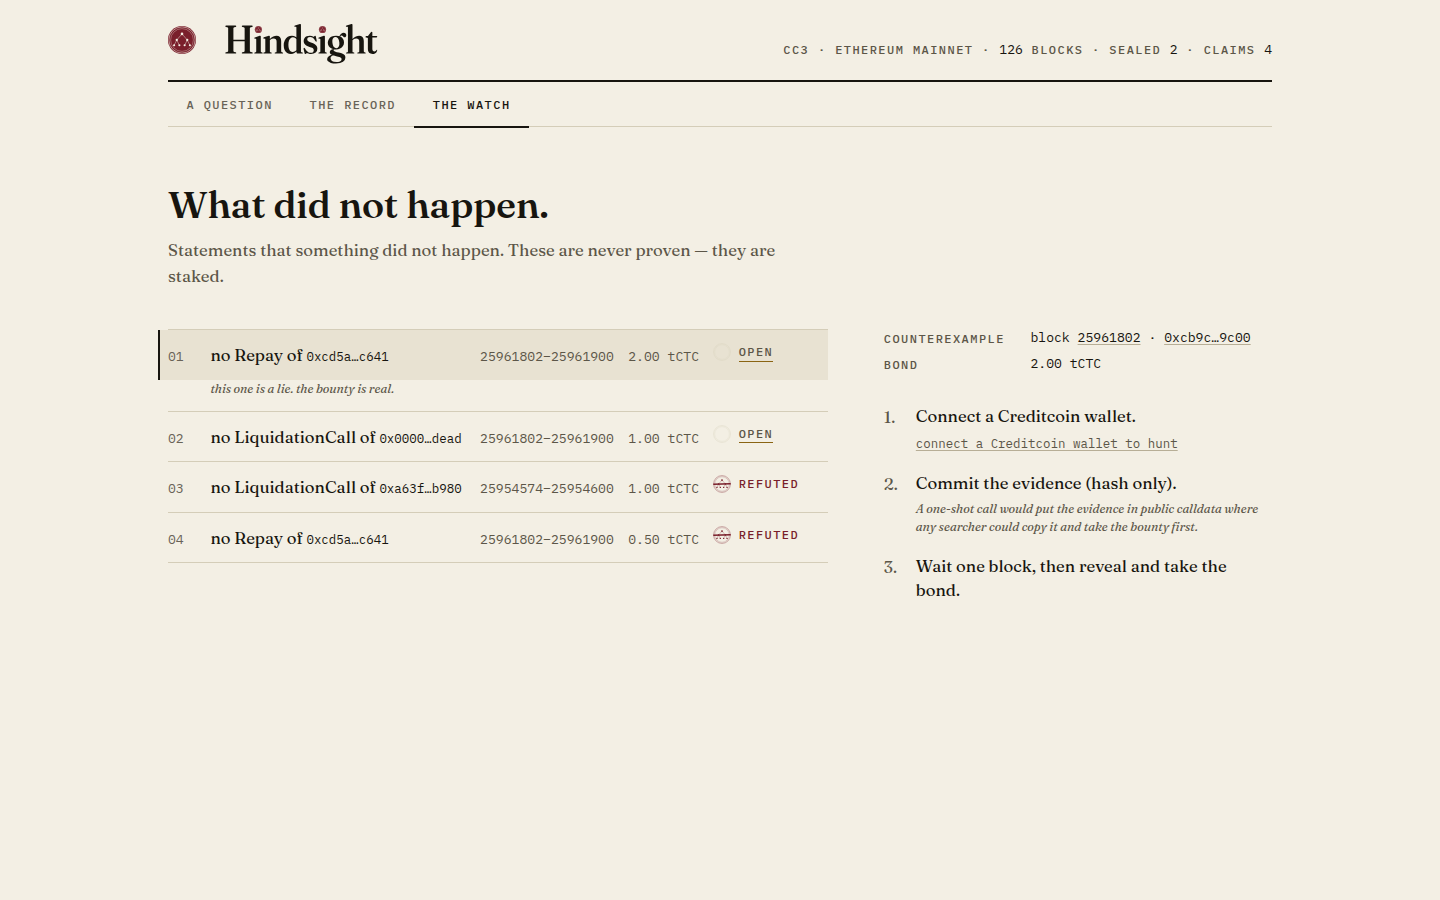
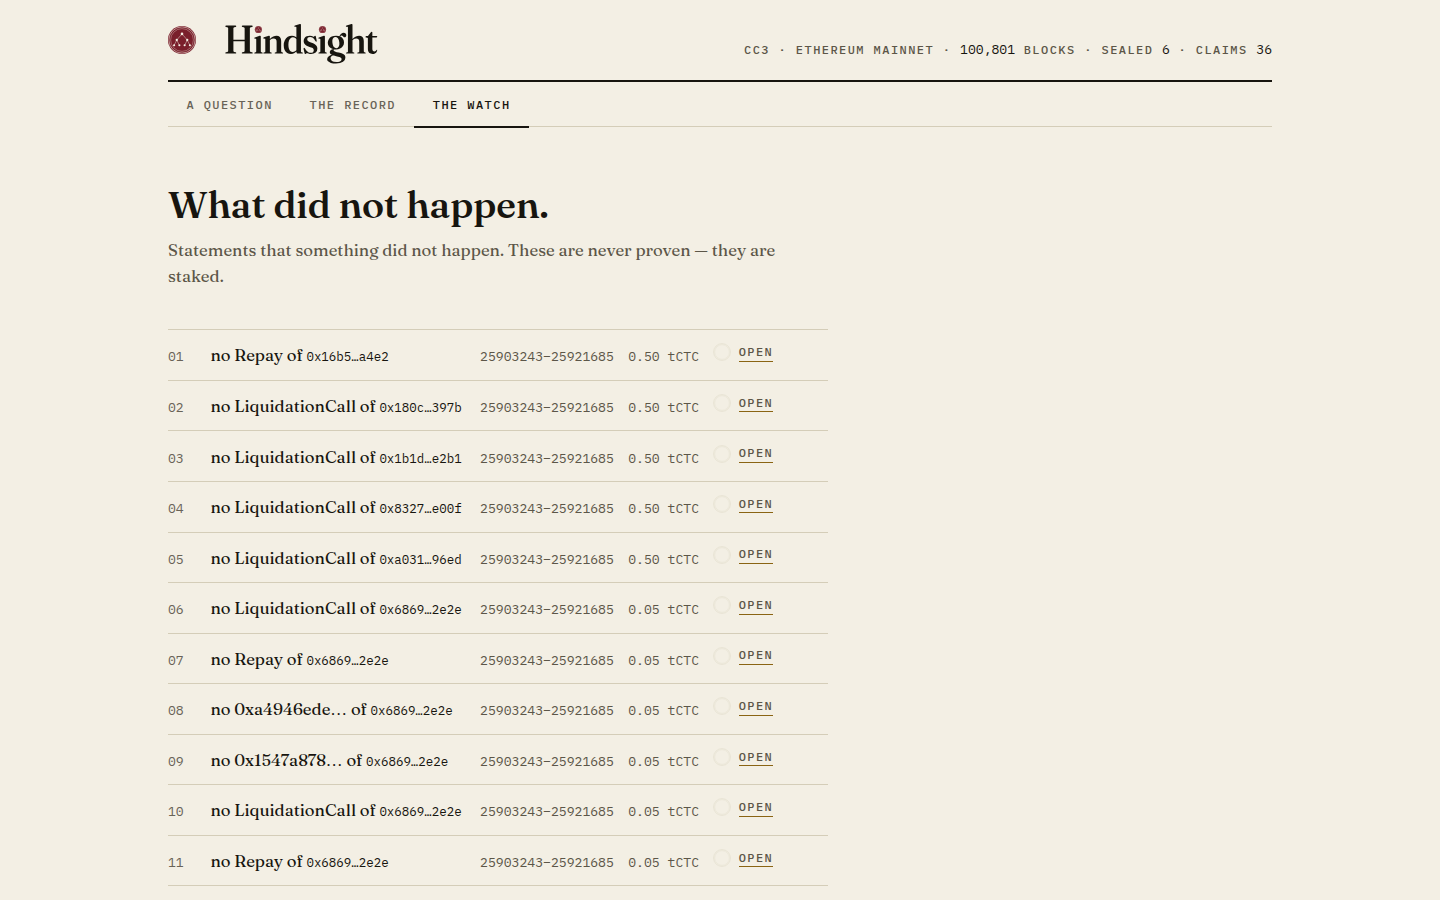
feat(web): read the board from AbsenceRegistryV2
Claims now cover a list of adjacent spans, so the struct and assertAbsence signature changed.
The mirror address is unchanged and the archive carries over intact.

diff --git a/web/src/lib/chain.ts b/web/src/lib/chain.ts
@@ -22,7 +22,10 @@ export const CHAIN_KEY_ETH_MAINNET = 3;
 export const DEPLOY_BLOCK: number = (deployments as any).deployBlock ?? 0;
 
 export const MIRROR_ADDRESS: string = deployments.contracts.EthereumMirror;
-export const REGISTRY_ADDRESS: string = deployments.contracts.AbsenceRegistry;
+// V2 binds a *list* of adjacent spans, so a claim can cover more than one 5,000-block seal.
+// The mirror is unchanged and still holds the whole archive; only the registry was redeployed.
+export const REGISTRY_ADDRESS: string =
+  (deployments as any).contracts.AbsenceRegistryV2 ?? deployments.contracts.AbsenceRegistry;
 export const BLOCK_PROVER = '0x0000000000000000000000000000000000000FD2';
 
 /** Real Ethereum mainnet venues. Nothing here is deployed or controlled by this project. */
@@ -59,12 +62,12 @@ export const MIRROR_ABI = [
 export const REGISTRY_ABI = [
   'function claimCount() view returns (uint256)',
   'function assurance(uint256) view returns (uint8 status, uint256 bond, uint64 openUntil, uint64 spanFrom, uint64 spanTo)',
-  'function claimOf(uint256) view returns ((address claimant, address refuter, uint256 spanId, uint64 chainKey, address venue, bytes32 topic0, bytes32 subject, uint8 subjectTopic, uint256 bond, uint256 bondStaked, uint64 openUntil, uint8 status))',
+  'function claimOf(uint256) view returns ((address claimant, address refuter, uint64 chainKey, address venue, bytes32 topic0, bytes32 subject, uint8 subjectTopic, uint64 spanFrom, uint64 spanTo, bytes32 spansHash, uint256 bond, uint256 bondStaked, uint64 openUntil, uint8 status))',
   'function holds(uint256) view returns (bool)',
   'function holdsWithBond(uint256, uint256) view returns (bool)',
   'function MIN_BOND() view returns (uint256)',
   'function MIN_WINDOW() view returns (uint64)',
-  'function assertAbsence(uint256, address, bytes32, bytes32, uint8, uint64) payable returns (uint256)',
+  'function assertAbsence(uint256[], address, bytes32, bytes32, uint8, uint64) payable returns (uint256)',
   'function commitmentFor(uint256, uint64, bytes, (bytes32 hash, bool isLeft)[], bytes32, address) pure returns (bytes32)',
   'function commitRefutation(bytes32)',
   'function revealRefutation(uint256, uint64, bytes, (bytes32 hash, bool isLeft)[], bytes32)',
